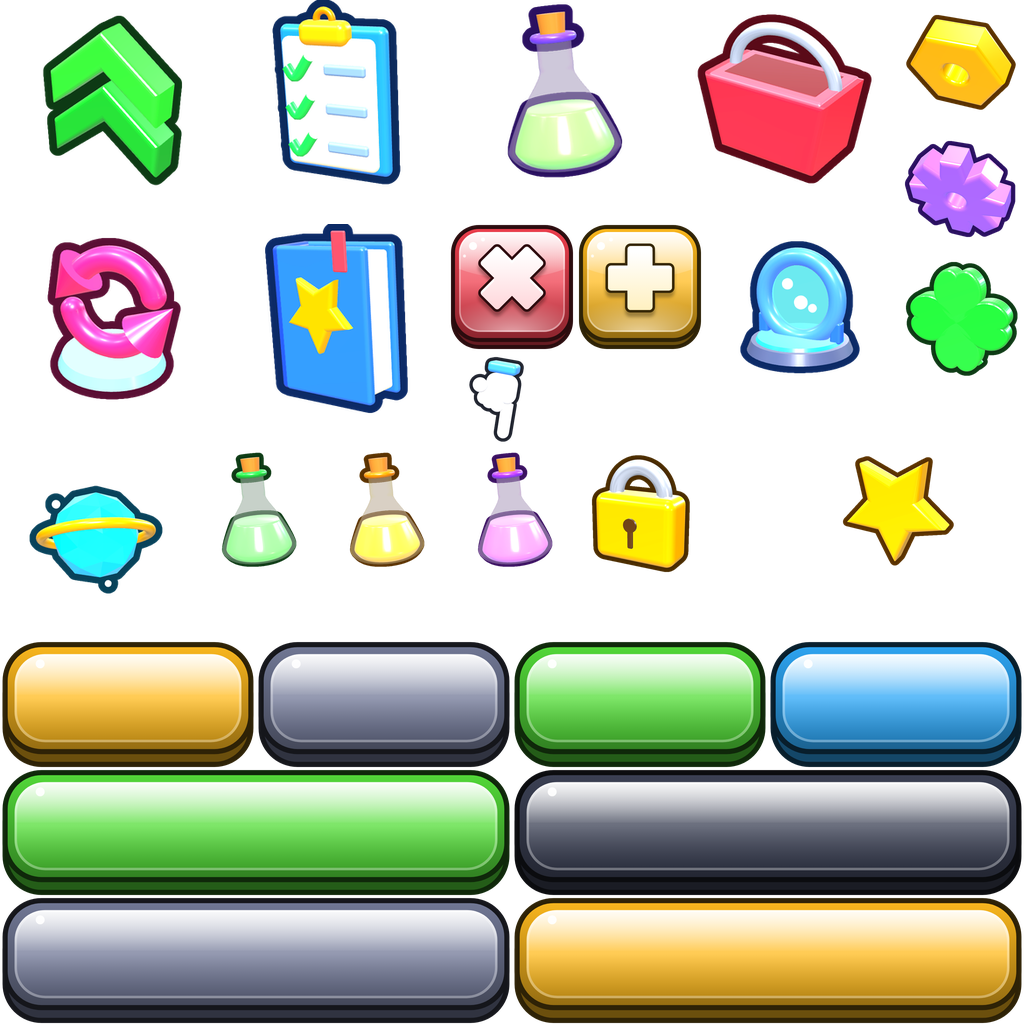
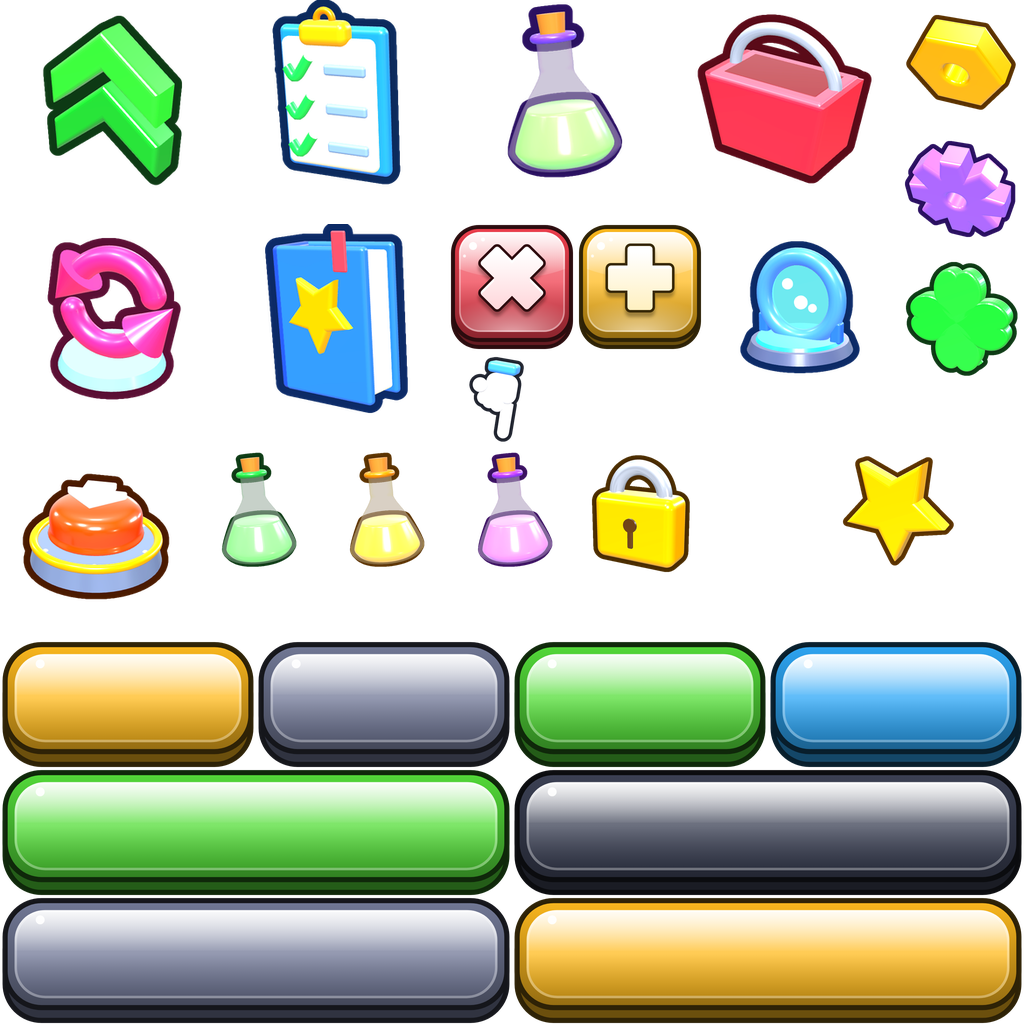
Bigger UI (UI_SCALE), new arcade DROP button, smaller non-spinning AUTO, tidy Index and Rebirth layout
Claude-Session: https://claude.ai/code/session_017gRZj1D7xuyxdpJXhPYWcz

Changed region(s): [[0.0, 0.4375, 0.1875, 0.5938]]

diff --git a/tools/render3d/icons.html b/tools/render3d/icons.html
@@ -129,15 +129,19 @@ MODELS.index = () => {
 };
 
 MODELS.drop = () => {
+  // Arcade-Druckknopf: Metallsockel mit Goldring, große orange Taste mit weißem Pfeil nach unten
   const g = new THREE.Group();
-  const core = mesh(new THREE.IcosahedronGeometry(1.05, 1), mat(0x22d0ff, { roughness: 0.16, flatShading: true, emissive: 0x0b86b8, emissiveIntensity: 0.45 }));
-  g.add(core);
-  g.add(mesh(new THREE.IcosahedronGeometry(0.62, 1), mat(0xbdf6ff, { flatShading: true, emissive: 0x7fe8ff, emissiveIntensity: 0.9, roughness: 0.2 })));
-  const ring = mesh(new THREE.TorusGeometry(1.32, 0.12, 20, 80), mat(0xffc21a, { metalness: 0.35, roughness: 0.25 }));
-  ring.rotation.set(1.15, 0.25, 0.5); g.add(ring);
-  for (const [x, y, z, r] of [[-0.7, 0.85, 0.7, 0.1], [0.95, 0.55, 0.5, 0.07], [0.6, -0.9, 0.7, 0.08]])
-    g.add(mesh(new THREE.SphereGeometry(r, 12, 12), mat(0xffffff, { emissive: 0xffffff, emissiveIntensity: 0.9 }), x, y, z));
-  g.rotation.set(0.3, -0.4, 0); return g;
+  const metal = mat(0x8fa0c4, { metalness: 0.5, roughness: 0.3 });
+  g.add(mesh(new THREE.CylinderGeometry(1.42, 1.55, 0.5, 64), metal, 0, -0.7, 0));
+  g.add(mesh(new THREE.TorusGeometry(1.44, 0.1, 14, 72), mat(0xffc21a, { metalness: 0.4, roughness: 0.25 }), 0, -0.44, 0).rotateX(Math.PI / 2));
+  for (let i = 0; i < 6; i++) { const a = i * Math.PI / 3 + 0.3; g.add(mesh(new THREE.SphereGeometry(0.085, 12, 12), mat(0xdfe6f5, { metalness: 0.6 }), Math.cos(a) * 1.28, -0.5, Math.sin(a) * 1.28)); }
+  const prof = [[0, -0.2], [1.02, -0.2], [1.06, 0.0], [1.06, 0.3], [0.98, 0.46], [0.8, 0.56], [0.45, 0.6], [0, 0.61]];
+  const pts = new THREE.SplineCurve(prof.map(p => new THREE.Vector2(p[0], p[1]))).getPoints(70).map(p => new THREE.Vector2(Math.max(0, p.x), p.y));
+  g.add(mesh(new THREE.LatheGeometry(pts, 64), mat(0xff4a12, { roughness: 0.22, clearcoat: 1, clearcoatRoughness: 0.1, emissive: 0xb02800, emissiveIntensity: 0.25 }), 0, -0.14, 0));
+  const arrow = poly([[-0.3, 0.5], [0.3, 0.5], [0.3, 0.05], [0.62, 0.05], [0, -0.55], [-0.62, 0.05], [-0.3, 0.05]]);
+  const ar = mesh(ext(arrow, 0.1, 0.05, 3), mat(0xffffff, { roughness: 0.25 }), 0, 0.64, 0.02);
+  ar.rotation.x = -Math.PI / 2; g.add(ar);
+  g.rotation.set(0.5, -0.25, 0); return g;
 };
 
 MODELS.nut = () => {

diff --git a/tools/make_ui_atlas.py b/tools/make_ui_atlas.py
@@ -274,7 +274,7 @@ ICONS3D = {
     "clover": (896, 256, 128, "#0d3a14"),
     "lock": (576, 448, 128, "#4a2c00"),
     "star": (832, 448, 128, "#5a3200"),
-    "drop": (0, 448, 192, "#08425a"),
+    "drop": (0, 448, 192, "#4a1a00"),
     "potion_g": (192, 448, 128, "#0d3a14"),
     "potion_y": (320, 448, 128, "#5a3200"),
     "potion_p": (448, 448, 128, "#3a1060"),
@@ -328,7 +328,7 @@ def main():
     sys.path.insert(0, os.path.dirname(__file__))
     import icons3d
     LABELED = {"upgrades", "aufgaben", "forschung", "shop", "rebirth", "index", "teleport", "drop"}   # unten bleibt Platz für die Beschriftung
-    ims = icons3d.render({n: (((v[3], 0.88, 0.1) if n == "drop" else (v[3], 0.75, 0.17)) if n in LABELED else v[3]) for n, v in ICONS3D.items()}, 256, fill=0.87)
+    ims = icons3d.render({n: (((v[3], 0.84, 0.1) if n == "drop" else (v[3], 0.75, 0.17)) if n in LABELED else v[3]) for n, v in ICONS3D.items()}, 256, fill=0.87)
     for n, (x, y, sz, _) in ICONS3D.items():
         atlas.alpha_composite(ims[n].resize((sz, sz), Image.LANCZOS), (x, y))
     atlas.save(os.path.join(OUT, "atlas.png"), optimize=True)

diff --git a/DESIGN.md b/DESIGN.md
@@ -86,12 +86,18 @@ Danach den Block `local SPR = { ... }` im Skript durch den Inhalt von `atlas_rec
 Banner (`UI.banner({ bot = "bot_samurai", ... })`). Für eigene Stellen: `shared.DropABotUI.botSprite(parent, "bot_katze", { sz = UDim2.fromOffset(96, 96) })`.
 Weitere Bots: Modell in `tools/render3d/icons.html` ergänzen und in `BOTS` (`tools/make_ui_atlas.py`) eintragen.
 
+## Größe
+
+`UI_SCALE` oben im Skript (Standard 1.15) macht die ganze Oberfläche größer oder kleiner. DROP und AUTO behalten
+ihre Größe (`k()` rechnet sie um). Alles andere wächst mit.
+
 ## Animationen
 
 - Darüberfahren: Knopf wächst leicht und wackelt kurz.
 - Drücken: Knopf wird gequetscht, beim Loslassen federt er elastisch zurück.
-- Klick: Ring und Funken. Kauf: zusätzlich Kauf-Geräusch. DROP: Zahl steigt auf (`UI.popup`), der Orb schwebt leicht.
-- AUTO: Zahnrad-Symbol, dreht sich, solange Auto an ist.
+- Klick: Ring und Funken. Kauf: zusätzlich Kauf-Geräusch. DROP: Zahl steigt auf (`UI.popup`).
+- AUTO: kleines Zahnrad-Symbol mit Beschriftung. An = bunt mit grüner Schrift, Aus = grau. Es dreht sich nicht.
+- DROP: großer Arcade-Druckknopf mit Metallsockel und Pfeil nach unten.
 - Geräusche: `SOUND_IDS` oben im Skript. Leer lassen = stumm.
 
 ## Welt und Licht (WorldLook)
@@ -109,6 +115,5 @@ Aufgaben, Forschung, Shop, Index und Rebirth haben jetzt eigene Layouts mit Beis
 
 ## Noch offen
 
-- Die kleinen Upgrade-Symbole in den Karten sind noch Emojis.
 - Die Werte in den Fenstern (Aufgaben, Forschung, Shop-Preise für Tränke) sind Beispiele.
 - Eigene Welt-Modelle (Insel, Wege, Brett-Optik) folgen; bisher gibt es nur Licht, Farben und Deko.
